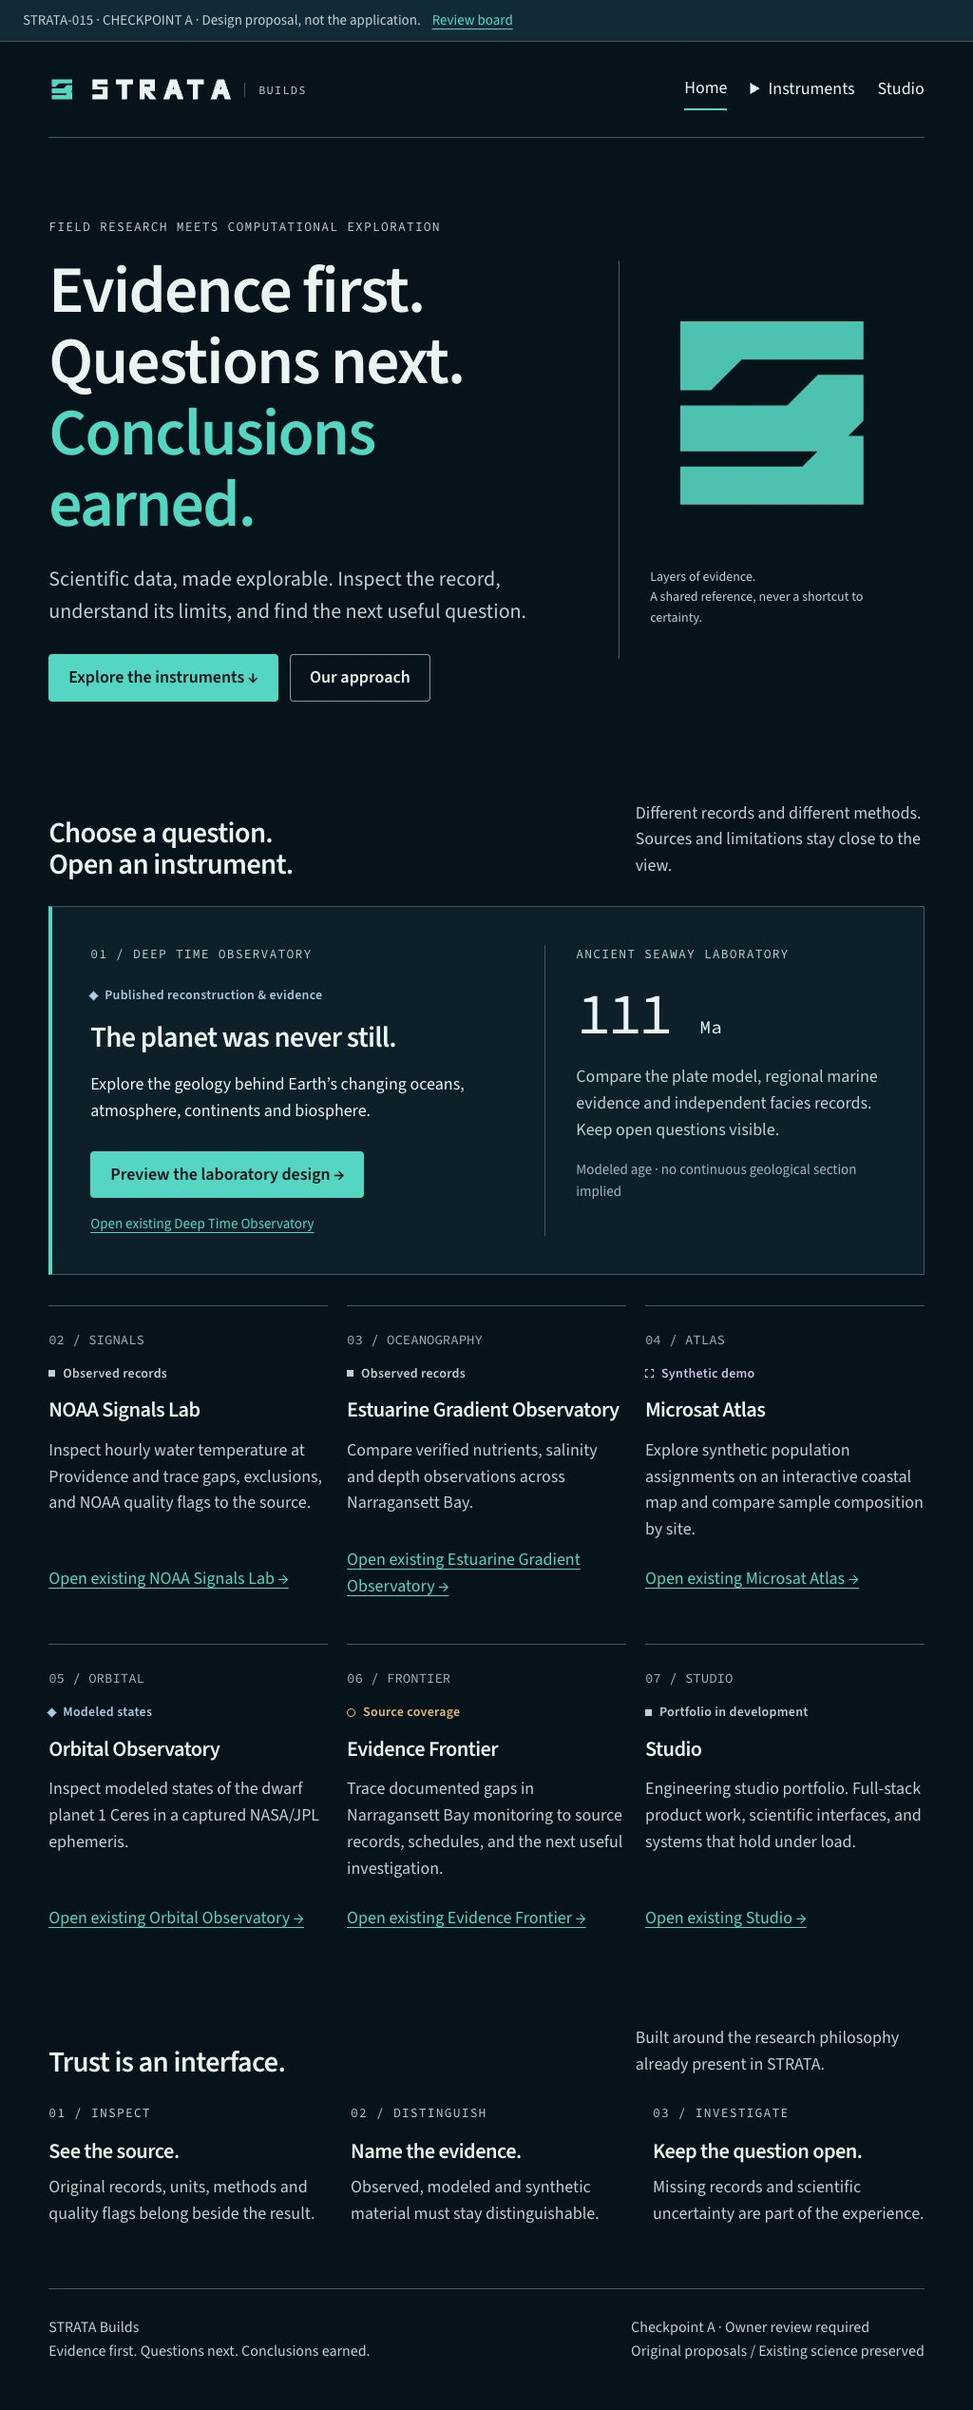
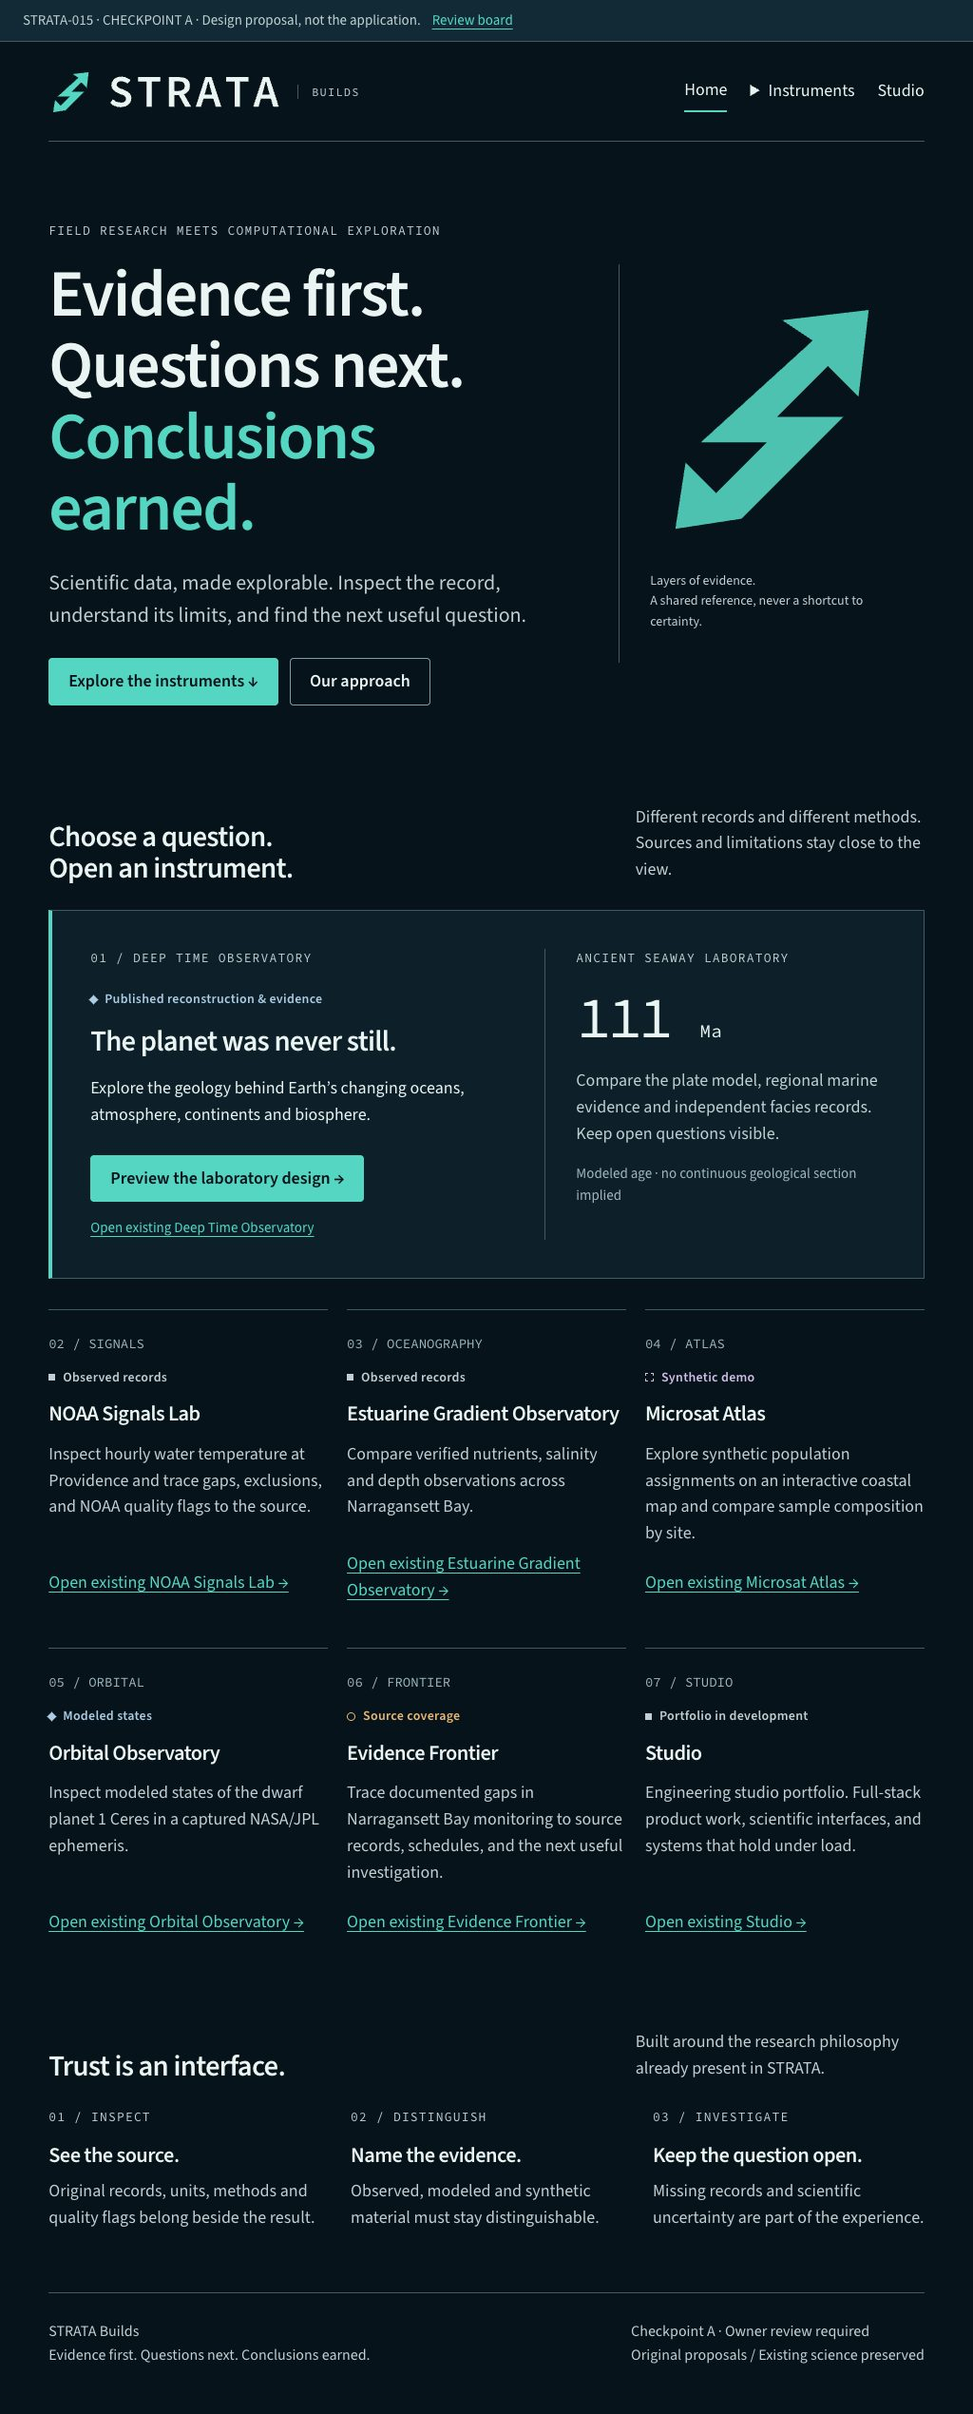
Refine review identity with rocket-bolt S and clearer wordmark

diff --git a/docs/strata-015/index.html b/docs/strata-015/index.html
@@ -21,8 +21,8 @@
         <a class="brand" href="home.html" aria-label="STRATA proposed homepage"
           ><img
             src="assets/horizontal-lockup.svg"
-            width="216"
-            height="32"
+            width="248"
+            height="48"
             alt="STRATA"
           /><small>BUILDS</small></a
         >
@@ -51,15 +51,14 @@
       </section>
       <section>
         <div class="section-heading">
-          <h2>01 / Three marks.<br />One recommendation.</h2>
+          <h2>01 / Four directions.<br />One recommendation.</h2>
           <p>
-            Original SVG geometry. Concept A is recommended, not approved or
-            final.
+            Updated after owner feedback: Concept D explores a rocket-bolt S. The mark and clearer lettering remain proposals for review.
           </p>
         </div>
-        <div class="grid">
+        <div class="grid concept-grid"><article class="panel"><p class="eyebrow">Concept D / Owner-requested exploration</p><div class="mark-field"><img src="assets/concept-d.svg" alt="Rocket-bolt S concept"></div><h3>Rocket-bolt S</h3><p class="muted">A single angular path folds like an S, with an ascending nose and a cut tail. No tiny window, flame or detached ornament to disappear at favicon size.</p><div class="sizes"><span><img src="assets/concept-d.svg" width="16" height="16" alt="16 pixel rocket-bolt S">16px</span><span><img src="assets/concept-d.svg" width="24" height="24" alt="24 pixel rocket-bolt S">24px</span><span><img src="assets/concept-d.svg" width="32" height="32" alt="32 pixel rocket-bolt S">32px</span><span><img src="assets/concept-d.svg" width="48" height="48" alt="48 pixel rocket-bolt S">48px</span></div><p class="caption">New direction for review. More energetic than the strata mark; its arrow/lightning reading is stronger than its literal S at 16 px.</p></article>
           <article class="panel">
-            <p class="eyebrow">Concept A / Recommended for development</p>
+            <p class="eyebrow">Concept A / Earlier direction</p>
             <div class="mark-field">
               <img src="assets/concept-a.svg" alt="Offset strata concept" />
             </div>
@@ -201,7 +200,7 @@
       </section>
       <section>
         <div class="section-heading">
-          <h2>02 / The mark in use</h2>
+          <h2>02 / Sharper lettering, clearer scale</h2>
           <p>Single-color reproduction and an outlined horizontal wordmark.</p>
         </div>
         <div class="grid">
@@ -211,8 +210,7 @@
               alt="Proposed STRATA lockup"
             />
             <p class="caption">
-              Primary horizontal lockup. Custom outlined letters; no font
-              dependency.
+              Revised horizontal lockup. Larger Source Sans 3 Semibold outlines with open counters; no runtime font dependency.
             </p>
           </div>
           <div class="panel">
@@ -241,8 +239,7 @@
           <div class="panel">
             <h3>Room to read</h3>
             <p>
-              Clear space: ¼ symbol width on every side. Minimum symbol: 16 px.
-              Lockup: 144 px minimum.
+              Clear space: ¼ symbol width on every side. Minimum symbol: 16 px. Revised lockup: 192 px minimum; 248 px in the header.
             </p>
             <p class="caption">
               Favicon/app-icon integration remains gated. This review page alone
@@ -251,7 +248,7 @@
           </div>
         </div>
       </section>
-      <section>
+      <section><h2>Lettering revision</h2><p class="muted">The earlier block letters had tight counters. The new lettering keeps the R and A openings clear and gives the name more room.</p><div class="grid" style="margin-top:24px"><div class="panel"><p class="eyebrow">Before · archived proposal</p><img src="assets/horizontal-lockup-v1.svg" width="192" alt="Earlier block wordmark"></div><div class="panel"><p class="eyebrow">Recommended · clear lettering</p><img src="assets/horizontal-lockup.svg" width="248" alt="Revised clear STRATA wordmark"></div><div class="panel"><p class="eyebrow">Optional · framed treatment</p><img src="assets/horizontal-lockup-framed.svg" width="272" alt="Revised wordmark with a fine outer frame"><p class="caption">The border belongs around the lockup, not around each letter. Letter outlines would close small counters.</p></div></div></section><section>
         <div class="section-heading">
           <h2>03 / Quiet surfaces.<br />Meaningful color.</h2>
           <p>

diff --git a/docs/strata-015/review.css b/docs/strata-015/review.css
@@ -148,7 +148,8 @@ section[id] {
   color: var(--text);
 }
 .brand img {
-  width: 192px;
+  width: 248px;
+  max-width: 100%;
   height: auto;
 }
 .brand small {
@@ -761,3 +762,8 @@ details p {
     width: 280px;
   }
 }
+
+/* Owner-requested identity iteration; documentation scope only. */
+.concept-grid { grid-template-columns: repeat(2, minmax(0, 1fr)); }
+.brand { flex-shrink: 0; min-height: 48px; }
+@media (max-width: 650px) { .concept-grid { grid-template-columns: 1fr; } .brand img { width: 232px; } }

diff --git a/docs/strata-015/comparison.html b/docs/strata-015/comparison.html
@@ -21,8 +21,8 @@
         <a class="brand" href="home.html" aria-label="STRATA proposed homepage"
           ><img
             src="assets/horizontal-lockup.svg"
-            width="216"
-            height="32"
+            width="248"
+            height="48"
             alt="STRATA"
           /><small>BUILDS</small></a
         >

diff --git a/docs/strata-015/home.html b/docs/strata-015/home.html
@@ -21,8 +21,8 @@
         <a class="brand" href="home.html" aria-label="STRATA proposed homepage"
           ><img
             src="assets/horizontal-lockup.svg"
-            width="216"
-            height="32"
+            width="248"
+            height="48"
             alt="STRATA"
           /><small>BUILDS</small></a
         >

diff --git a/docs/strata-015/laboratory.html b/docs/strata-015/laboratory.html
@@ -21,8 +21,8 @@
         <a class="brand" href="home.html" aria-label="STRATA proposed homepage"
           ><img
             src="assets/horizontal-lockup.svg"
-            width="216"
-            height="32"
+            width="248"
+            height="48"
             alt="STRATA"
           /><small>BUILDS</small></a
         >

diff --git a/docs/STRATA-015-DESIGN-SPEC.md b/docs/STRATA-015-DESIGN-SPEC.md
@@ -8,22 +8,24 @@ STRATA is the organizing identity; Builds names the engineering platform. Instru
 
 **Evidence first. Questions next. Conclusions earned.** The promise is inspectability, not completeness or certainty. The visual signature is a measured offset: separated layers, aligned reading edges, restrained teal actions, and explicit reference labels. Reuse the offset sparingly in the mark and selected-rule treatment; do not decorate scientific plots with fake strata or fabricated geography.
 
-## Original identity options
+## Original identity options · revised after owner feedback
 
 | Concept | Construction | Strength | Tradeoff | Recommendation |
 | --- | --- | --- | --- | --- |
-| A · Offset strata | Three filled layers on a 32-unit grid; stepped negative-space seam | Compact monogram-like silhouette and clear one-color reproduction | Small seams require raster review; not a literal initial for every viewer | Develop after owner review |
+| A · Offset strata | Three filled layers on a 32-unit grid; stepped negative-space seam | Compact monogram-like silhouette and clear one-color reproduction | Small seams require raster review | Earlier direction retained |
 | B · Reference section | Layer core with two opposing registration corners | Communicates inspection and alignment | Could read as scanner/crop; more small detail | Keep as alternate |
 | C · Layered signal | Three staggered bands with measured breaks | Simple, easy to reproduce | Most generic; familiar stack/database vocabulary | Do not advance first |
 
-Assets in `strata-015/assets/`: `concept-a.svg`, `concept-b.svg`, `concept-c.svg`, `symbol.svg`, `mono-light.svg`, `mono-dark.svg`, `horizontal-lockup.svg`. All symbol and wordmark outlines are original SVG path geometry; no raster tracing, gradients, filters, external references or font dependencies. The lockup is a working outline drawing, not final kerning approval.
+| D · Rocket-bolt S | One angular zigzag, ascending nose and cut tail on a 48-unit grid | More energetic; uninterrupted silhouette without fragile detail | Arrow/lightning reading is stronger than literal S at 16 px | Current owner-requested exploration; not final |
 
-A is the strongest direction **within this exploration**, not a proven legally unique trademark. No comprehensive trademark/confusability search or owner recognition test has been completed. Before final adoption, compare the chosen silhouette against relevant science/software brands and test unaided recognition; geometric stacked marks are a crowded category. Do not claim market uniqueness from an original drawing alone.
+Assets in `strata-015/assets/`: `concept-a.svg`, `concept-b.svg`, `concept-c.svg`, `concept-d.svg`, `symbol.svg`, `mono-light.svg`, `mono-dark.svg`, `horizontal-lockup.svg`. All symbol geometry is original. Following the owner’s request for sharper lettering and a thunderbolt-shaped rocket S, the working header uses Concept D and Source Sans 3 Semibold letters converted to paths from the pinned licensed font below. Those letterforms are Adobe’s, not claimed as original. There are no raster traces, gradients, filters, external references or runtime font dependencies in the SVG. `horizontal-lockup-v1.svg` preserves the earlier custom block lettering. `horizontal-lockup-framed.svg` offers an optional perimeter border; letter strokes are not outlined, to keep counters open. Kerning and recognition still require owner review.
+
+A was initially recommended; D now explores the owner’s explicit direction. Neither is approved or a proven legally unique trademark. No comprehensive trademark/confusability search or owner recognition test has been completed. Before final adoption, compare the chosen silhouette against relevant science/software brands and test unaided recognition; geometric stacked marks are a crowded category. Do not claim market uniqueness from an original drawing alone.
 
 ### Usage rules proposed for approval
 
-- Grid 32 × 32; occupied area approximately 24 × 24. Clear space outside the asset: at least 8 units (¼ symbol width). Do not change offsets or close seams.
-- Symbol sizes: 16, 24, 32, 48 px. Use the standalone symbol below a 144 px lockup width. Review both 1× and 2× displays; browser captures here are 1×.
+- A–C use a 32-unit grid; D uses 48 units. Clear space outside the asset: ¼ symbol width (12 units for D). Do not stretch the geometry or close the interior turns.
+- Symbol sizes: 16, 24, 32, 48 px. Use the standalone symbol below a 192 px lockup width. Review both 1× and 2× displays; header captures now cover both 1× and 2× pixel density. Header lockup is 248 px desktop and 232 px mobile; the prior header was 192 px.
 - Dark: teal symbol with pale wordmark. Light: dark monochrome symbol/wordmark. Single-color print: dark or reversed white. Never use teal body text on a pale background without measured contrast.
 - Do not stretch, rotate, add bevels/glow, put inside decorative badges or recolor individual layers as scientific categories.
 - Accessible home link name: “STRATA Builds — Home.” Hide inline logo graphics from assistive technology if the link already has that name. A standalone image uses an informative alt; decorative repetition uses empty alt.
@@ -64,7 +66,7 @@ Evaluated from official sources and specimen needs:
 | Inter + system mono | Readable UI emphasis, economical hierarchy; common in software interfaces | Viable fallback, not bundled |
 | Source Sans 3 + Source Code Pro | Humanist body shapes, restrained headings, legible scientific prose, matching mono companion | Recommended for review |
 
-Official license/family sources: [IBM Plex](https://github.com/IBM/plex), [Inter](https://github.com/rsms/inter), [Source Sans](https://github.com/adobe-fonts/source-sans), [Source Code Pro](https://github.com/adobe-fonts/source-code-pro). All are open-font projects; the bundled Adobe files include their actual OFL-1.1 license texts. A third heading font is not justified: use Source Sans semibold with a distinct size/spacing hierarchy, and reserve the original outlined wordmark for the brand.
+Official license/family sources: [IBM Plex](https://github.com/IBM/plex), [Inter](https://github.com/rsms/inter), [Source Sans](https://github.com/adobe-fonts/source-sans), [Source Code Pro](https://github.com/adobe-fonts/source-code-pro). All are open-font projects; the bundled Adobe files include their actual OFL-1.1 license texts. A third heading font is not justified: use Source Sans semibold with a distinct size/spacing hierarchy, and reserve the path-based wordmark for the brand.
 
 Pinned unmodified review assets:
 
@@ -122,7 +124,7 @@ Server components own shell and static framing; a small client boundary may hand
 
 ## Implementation order and review gate
 
-1. Owner reviews A/B/C, recommended A proportions/wordmark, palette, type pair and two representative compositions. This is the current stopping point.
+1. Owner reviews A/B/C/D, the requested rocket-bolt S exploration and revised wordmark, palette, type pair and two representative compositions. This is the current stopping point.
 2. B: approved identity and icons; namespaced tokens; scope-preserving root shell and navigation; explicit legacy light canvas boundaries. Validate unchanged scientific text, source hashes and controls before homepage work.
 3. B: minimal foundational components and approved homepage. Add a clearly scoped `/design-system` showcase with noindex and deliberate discoverability policy. The A review lives only under `docs/strata-015`, outside Next routes/public assets.
 4. B: full quality suite, application screenshots corresponding to all baseline routes, 320/375/768/1024/1440 reflow, accessibility checks, cold-load font/bundle measurements, draft PR review. No merge without later authorization.
@@ -142,3 +144,7 @@ Server components own shell and static framing; a small client boundary may hand
 - [ ] Real source inspectors retain uncertainties, provenance, license links and synthetic labels across all modules.
 
 Automated checks support these tests but do not complete them. WCAG 2.2 AA is the target; no conformance certification is claimed.
+
+## Owner feedback iteration · sharper identity
+
+The owner commented on the header at a 649 px viewport: improve logo/text sharpness and explore a thunderbolt-shaped rocket S, with a border or another legibility treatment. The revised lockup uses a 32-unit cap height, wider open counters, six licensed outline glyphs and larger displayed dimensions. SVG remains resolution-independent; no `crispEdges` override is used because it would damage the diagonal silhouette. The optional frame surrounds the entire mark/name, not individual glyphs. A–C remain available so the new direction is a comparison, not an unreviewed final selection. All changes remain documentation-only.

diff --git a/docs/STRATA-015-CHECKPOINT-A.md b/docs/STRATA-015-CHECKPOINT-A.md
@@ -6,7 +6,7 @@ Branch: `strata-015/brand-design-system` from production `7690b59f4525516bff95c7
 
 ## Review in this order
 
-1. [Three logo concepts](strata-015/proposals/logo-concepts.jpg): recommend **A / Offset strata** for development, subject to owner review. B / Reference section and C / Layered signal remain alternatives.
+1. [Four logo directions](strata-015/proposals/logo-concepts.jpg): **D / Rocket-bolt S** explores the owner’s requested direction, with clearer Source Sans 3 outline lettering and optional framing. A / Offset strata, B / Reference section and C / Layered signal remain available for comparison. No mark is final.
 2. [Homepage proposal, desktop](strata-015/proposals/home-1440.jpg) · [mobile](strata-015/proposals/home-375.jpg).
 3. [Laboratory specimen, desktop](strata-015/proposals/laboratory-1440.jpg) · [mobile](strata-015/proposals/laboratory-375.jpg). This preserves representative existing text; it is not a replacement scientific instrument.
 4. [Design audit](STRATA-015-DESIGN-AUDIT.md) and [full specification](STRATA-015-DESIGN-SPEC.md), including proposed shared architecture, rollout and incomplete human accessibility checklist.
@@ -23,10 +23,10 @@ Open `http://127.0.0.1:3257/strata-015/index.html`. This is a local documentatio
 ## What is supplied
 
 - Five prioritized audit findings, actual route inventory, cascade analysis and safe migration boundaries.
-- Three original vector concepts, proposed symbol, primary horizontal lockup and light/dark monochrome variants; 16/24/32/48 px specimens.
+- Four original symbol concepts, revised outlined wordmark, proposed symbol, primary horizontal lockup and light/dark monochrome variants; 16/24/32/48 px specimens.
 - Token, typography, evidence-state, motion and accessibility contracts.
 - Standalone homepage and laboratory HTML/CSS specimens, native navigation/disclosures and a small illustrative four-view switch.
-- 27 baseline images (eight routes plus navigation at 375/768/1440), 15 proposal page images at 320/375/768/1024/1440, five open-menu images, and a logo comparison image.
+- 27 baseline images (eight routes plus navigation at 375/768/1440), 15 proposal page images at 320/375/768/1024/1440, five open-menu images, a logo comparison image, and ten revised-header captures at five widths and 1×/2× density.
 - Locally served Source Sans 3 and Source Code Pro review fonts with pinned revisions, hashes and licenses.
 
 No shared React components, application shell, public style-guide route or app icons were implemented: these are Checkpoint B deliverables gated by the brief. No scientific module was restyled.
@@ -74,6 +74,10 @@ Review fonts total **385,772 bytes**, locally served to the review only. This ex
 
 ## Decision requested
 
-Review the recommended A mark, color/type direction, homepage hierarchy and laboratory evidence treatment. Approve or revise this design specification before any broad CSS change or Checkpoint B implementation. This stop is explicitly required by the supplied STRATA-015 brief: **“STOP for owner review before broad CSS changes.”**
+Review the requested D rocket-bolt mark and revised lettering, color/type direction, homepage hierarchy and laboratory evidence treatment. Approve or revise this design specification before any broad CSS change or Checkpoint B implementation. This stop is explicitly required by the supplied STRATA-015 brief: **“STOP for owner review before broad CSS changes.”**
 
 The draft PR is a review vehicle only. No merge or production release is authorized by this checkpoint. TOOLING-014-01 remains separate; no retry of its failed adapter workflow was made. Future scientific work remains out of scope.
+
+## Header revision after owner comment
+
+[649 px / 1× header](strata-015/proposals/identity-649-1x.png) · [320 px / 2× header](strata-015/proposals/identity-320-2x.png) · [density check results](strata-015/proposals/identity-results.json). The primary wordmark now uses licensed Source Sans 3 Semibold outlines rather than the original block glyphs. No additional font request is required by the SVG. The prior block wordmark is archived and an optional bordered version appears on the review board. Application code remains unchanged. The header was checked at 320/375/649/768/1440 px with 1× and 2× density (10 captures); all loaded correctly without page-wide overflow. The 649 px 1× and 320 px 2× captures were visually inspected. The existing 15 prototype responsive/keyboard/reduced-motion checks, 60 token contrast pairs and lint were rerun successfully for this revision.
